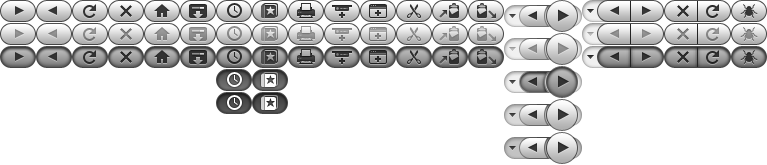
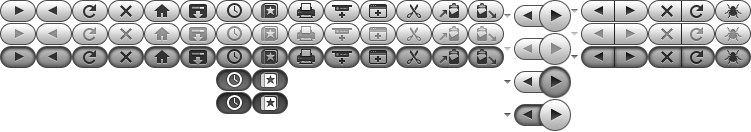
Bug 462644 - Remove etch from the Keyhole on OS X. r=mstange

diff --git a/browser/themes/pinstripe/browser/browser.css b/browser/themes/pinstripe/browser/browser.css
@@ -368,7 +368,7 @@ toolbar[mode="icons"] #forward-button .toolbarbutton-text-box,
 /* ----- DEFAULT BACK/FORWARD BUTTONS ----- */
 
 toolbar[mode="icons"] #unified-back-forward-button > #back-button {
-  -moz-image-region: rect(0px, 539px, 33px, 504px);
+  -moz-image-region: rect(0px, 535px, 33px, 504px);
   -moz-margin-end: 0;
   -moz-padding-end: 0;
   border-left: none;
@@ -376,29 +376,29 @@ toolbar[mode="icons"] #unified-back-forward-button > #back-button {
 }
 
 toolbar[mode="icons"] #unified-back-forward-button > #back-button[chromedir="rtl"] {
-  -moz-image-region: rect(0px, 582px, 33px, 547px);
+  -moz-image-region: rect(0px, 571px, 33px, 540px);
 }
 
 toolbar[mode="icons"] #unified-back-forward-button > #back-button[disabled="true"] {
- -moz-image-region: rect(33px, 539px, 66px, 504px);
+ -moz-image-region: rect(33px, 535px, 66px, 504px);
 }
 
 toolbar[mode="icons"] #unified-back-forward-button > #back-button[disabled="true"][chromedir="rtl"] {
-  -moz-image-region: rect(33px, 582px, 66px, 547px);
+  -moz-image-region: rect(33px, 571px, 66px, 540px);
 }
 
 toolbar[mode="icons"] #unified-back-forward-button > #back-button:hover:active:not([disabled]),
 toolbar[mode="icons"] #unified-back-forward-button > #back-button[open="true"] {
-  -moz-image-region: rect(66px, 539px, 99px, 504px);
+  -moz-image-region: rect(66px, 535px, 99px, 504px);
 }
 
 toolbar[mode="icons"] #unified-back-forward-button > #back-button:hover:active[chromedir="rtl"]:not([disabled]),
 toolbar[mode="icons"] #unified-back-forward-button > #back-button[open="true"][chromedir="rtl"] {
-  -moz-image-region: rect(66px, 582px, 99px, 547px);
+  -moz-image-region: rect(66px, 571px, 99px, 540px);
 }
 
 toolbar[mode="icons"] #unified-back-forward-button > #forward-button {
-  -moz-image-region: rect(0px, 566px, 33px, 539px);
+  -moz-image-region: rect(0px, 560px, 33px, 535px);
   -moz-margin-start: 0;
   -moz-margin-end: 0;
   -moz-padding-start: 0;
@@ -408,29 +408,30 @@ toolbar[mode="icons"] #unified-back-forward-button > #forward-button {
 }
 
 toolbar[mode="icons"] #unified-back-forward-button > #forward-button[chromedir="rtl"] {
-  -moz-image-region: rect(0px, 547px, 33px, 519px);
+  -moz-image-region: rect(0px, 540px, 33px, 514px);
 }
 
 toolbar[mode="icons"] #unified-back-forward-button > #forward-button[disabled="true"] {
- -moz-image-region: rect(33px, 566px, 66px, 539px);
+ -moz-image-region: rect(33px, 560px, 66px, 535px);
 }
 
 toolbar[mode="icons"] #unified-back-forward-button > #forward-button[disabled="true"][chromedir="rtl"] {
- -moz-image-region: rect(33px, 547px, 66px, 519px);
+ -moz-image-region: rect(33px, 540px, 66px, 514px);
 }
 
 toolbar[mode="icons"] #unified-back-forward-button > #forward-button:hover:active:not([disabled]),
 toolbar[mode="icons"] #unified-back-forward-button > #forward-button[open="true"] {
-  -moz-image-region: rect(66px, 566px, 99px, 539px);
+  -moz-image-region: rect(99px, 560px, 132px, 530px);
+  -moz-margin-start: -5px;
 }
 
 toolbar[mode="icons"] #unified-back-forward-button > #forward-button[chromedir="rtl"]:hover:active:not([disabled]),
 toolbar[mode="icons"] #unified-back-forward-button > #forward-button[open="true"][chromedir="rtl"] {
-  -moz-image-region: rect(66px, 547px, 99px, 519px);
+  -moz-image-region: rect(99px, 545px, 132px, 514px);
 }
 
 #back-forward-dropmarker {
-  -moz-image-region: rect(0px, 582px, 33px, 566px);
+  -moz-image-region: rect(0px, 571px, 33px, 560px);
   -moz-margin-start: 0;
   -moz-margin-end: 3px;
   -moz-padding-start: 0;
@@ -440,7 +441,7 @@ toolbar[mode="icons"] #unified-back-forward-button > #forward-button[open="true"
 }
 
 #back-forward-dropmarker[chromedir="rtl"] {
-  -moz-image-region: rect(0px, 519px, 33px, 504px);
+  -moz-image-region: rect(0px, 514px, 33px, 504px);
 }
 
 toolbar[mode="icons"] #back-forward-dropmarker > image {
@@ -454,21 +455,21 @@ toolbar[mode="icons"] #back-forward-dropmarker > dropmarker {
 }
 
 #back-forward-dropmarker[disabled="true"] {
- -moz-image-region: rect(33px, 582px, 66px, 566px);
+ -moz-image-region: rect(33px, 571px, 66px, 560px);
 }
 
 #back-forward-dropmarker[disabled="true"][chromedir="rtl"] {
- -moz-image-region: rect(33px, 519px, 66px, 504px);
+ -moz-image-region: rect(33px, 514px, 66px, 504px);
 }
 
 #back-forward-dropmarker:hover:active:not([disabled]),
 #back-forward-dropmarker[open="true"] {
-  -moz-image-region: rect(66px, 582px, 99px, 566px);
+  -moz-image-region: rect(66px, 571px, 99px, 560px);
 }
 
 #back-forward-dropmarker[chromedir="rtl"]:hover:active:not([disabled]),
 #back-forward-dropmarker[open="true"][chromedir="rtl"] {
-  -moz-image-region: rect(66px, 519px, 99px, 504px);
+  -moz-image-region: rect(66px, 514px, 99px, 504px);
 }
 
 .unified-nav-back[_moz-menuactive],
@@ -485,7 +486,7 @@ menupopup[chromedir="rtl"] > .unified-nav-back[_moz-menuactive] {
 /* ----- SMALL BACK BUTTON, PAIRED----- */	
 
 toolbar[mode="icons"][iconsize="small"] #unified-back-forward-button > #back-button {
-  -moz-image-region: rect(0px, 616px, 23px, 582px);
+  -moz-image-region: rect(0px, 605px, 23px, 571px);
   -moz-margin-end: 0;
   -moz-padding-end: 0;
   border-left: none;
@@ -493,31 +494,31 @@ toolbar[mode="icons"][iconsize="small"] #unified-back-forward-button > #back-but
 }
 
 toolbar[mode="icons"][iconsize="small"] #unified-back-forward-button > #back-button[chromedir="rtl"] {
-  -moz-image-region: rect(0px, 664px, 23px, 630px);
+  -moz-image-region: rect(0px, 648px, 23px, 614px);
 }
 
 toolbar[mode="icons"][iconsize="small"] #unified-back-forward-button > #back-button[disabled="true"] {
-  -moz-image-region: rect(23px, 616px, 46px, 582px);
+  -moz-image-region: rect(23px, 605px, 46px, 571px);
 }
 
 toolbar[mode="icons"][iconsize="small"] #unified-back-forward-button > #back-button[disabled="true"][chromedir="rtl"] {
-  -moz-image-region: rect(23px, 664px, 46px, 630px);
+  -moz-image-region: rect(23px, 648px, 46px, 614px);
 }
 
 toolbar[mode="icons"][iconsize="small"] #unified-back-forward-button > #back-button:hover:active:not([disabled]),
 toolbar[mode="icons"][iconsize="small"] #unified-back-forward-button > #back-button[open="true"] {
-  -moz-image-region: rect(46px, 616px, 69px, 582px);
+  -moz-image-region: rect(46px, 605px, 69px, 571px);
 }
 
 toolbar[mode="icons"][iconsize="small"] #unified-back-forward-button > #back-button[chromedir="rtl"]:hover:active:not([disabled]),
 toolbar[mode="icons"][iconsize="small"] #unified-back-forward-button > #back-button[open="true"][chromedir="rtl"] {
-  -moz-image-region: rect(46px, 664px, 69px, 630px);
+  -moz-image-region: rect(46px, 648px, 69px, 614px);
 }
 
 /* ----- SMALL FORWARD BUTTON, PAIRED ----- */	
 
 toolbar[mode="icons"][iconsize="small"] #unified-back-forward-button > #forward-button {
-  -moz-image-region: rect(0px, 649px, 23px, 616px);
+  -moz-image-region: rect(0px, 638px, 23px, 605px);
   -moz-margin-start: 0;
   -moz-padding-start: 0;
   border-left: none;
@@ -525,53 +526,54 @@ toolbar[mode="icons"][iconsize="small"] #unified-back-forward-button > #forward-
 }
 
 toolbar[mode="icons"][iconsize="small"] #unified-back-forward-button > #forward-button[chromedir="rtl"] {
-  -moz-image-region: rect(0px, 630px, 23px, 597px);
+  -moz-image-region: rect(0px, 614px, 23px, 580px);
 }
 
 toolbar[mode="icons"][iconsize="small"] #unified-back-forward-button > #forward-button[disabled="true"] {
- -moz-image-region: rect(23px, 649px, 46px, 616px);
+ -moz-image-region: rect(23px, 638px, 46px, 605px);
 }
 
 toolbar[mode="icons"][iconsize="small"] #unified-back-forward-button > #forward-button[disabled="true"][chromedir="rtl"] {
- -moz-image-region: rect(23px, 630px, 46px, 597px);
+ -moz-image-region: rect(23px, 614px, 46px, 580px);
 }
 
 toolbar[mode="icons"][iconsize="small"] #unified-back-forward-button > #forward-button:hover:active:not([disabled]),
 toolbar[mode="icons"][iconsize="small"] #unified-back-forward-button > #forward-button[open="true"] {
-  -moz-image-region: rect(46px, 649px, 69px, 616px);
+  -moz-image-region: rect(46px, 638px, 69px, 605px);
+  -moz-margin-start: 0;
 }
 
 toolbar[mode="icons"][iconsize="small"] #unified-back-forward-button > #forward-button[chromedir="rtl"]:hover:active:not([disabled]),
 toolbar[mode="icons"][iconsize="small"] #unified-back-forward-button > #forward-button[open="true"][chromedir="rtl"] {
-  -moz-image-region: rect(46px, 630px, 69px, 597px);
+  -moz-image-region: rect(46px, 614px, 69px, 580px);
 }
 
 /* ----- SMALL BACK/FORWARD DROPMARKER ----- */	
 
 toolbar[iconsize="small"] #unified-back-forward-button > #back-forward-dropmarker {
-  -moz-image-region: rect(0px, 664px, 23px, 649px);
+  -moz-image-region: rect(0px, 648px, 23px, 638px);
 }
 
 toolbar[iconsize="small"] #unified-back-forward-button > #back-forward-dropmarker[chromedir="rtl"] {
-  -moz-image-region: rect(0px, 596px, 23px, 582px);
+  -moz-image-region: rect(0px, 580px, 23px, 571px);
 }
 
 toolbar[iconsize="small"] #unified-back-forward-button > #back-forward-dropmarker[disabled="true"] {
- -moz-image-region: rect(23px, 664px, 46px, 649px);
+ -moz-image-region: rect(23px, 648px, 46px, 638px);
 }
 
 toolbar[iconsize="small"] #unified-back-forward-button > #back-forward-dropmarker[disabled="true"][chromedir="rtl"] {
- -moz-image-region: rect(23px, 596px, 46px, 582px);
+ -moz-image-region: rect(23px, 580px, 46px, 571px);
 }
 
 toolbar[iconsize="small"] #unified-back-forward-button > #back-forward-dropmarker:hover:active:not([disabled]),
 toolbar[iconsize="small"] #unified-back-forward-button > #back-forward-dropmarker[open="true"] {
-  -moz-image-region: rect(46px, 664px, 69px, 649px);
+  -moz-image-region: rect(46px, 648px, 69px, 638px);
 }
 
 toolbar[iconsize="small"] #unified-back-forward-button > #back-forward-dropmarker[chromedir="rtl"]:hover:active:not([disabled]),
 toolbar[iconsize="small"] #unified-back-forward-button > #back-forward-dropmarker[open="true"][chromedir="rtl"] {
-  -moz-image-region: rect(46px, 596px, 69px, 582px);
+  -moz-image-region: rect(46px, 580px, 69px, 571px);
 }
 
 /* ----- DEFAULT RELOAD BUTTON ----- */	
